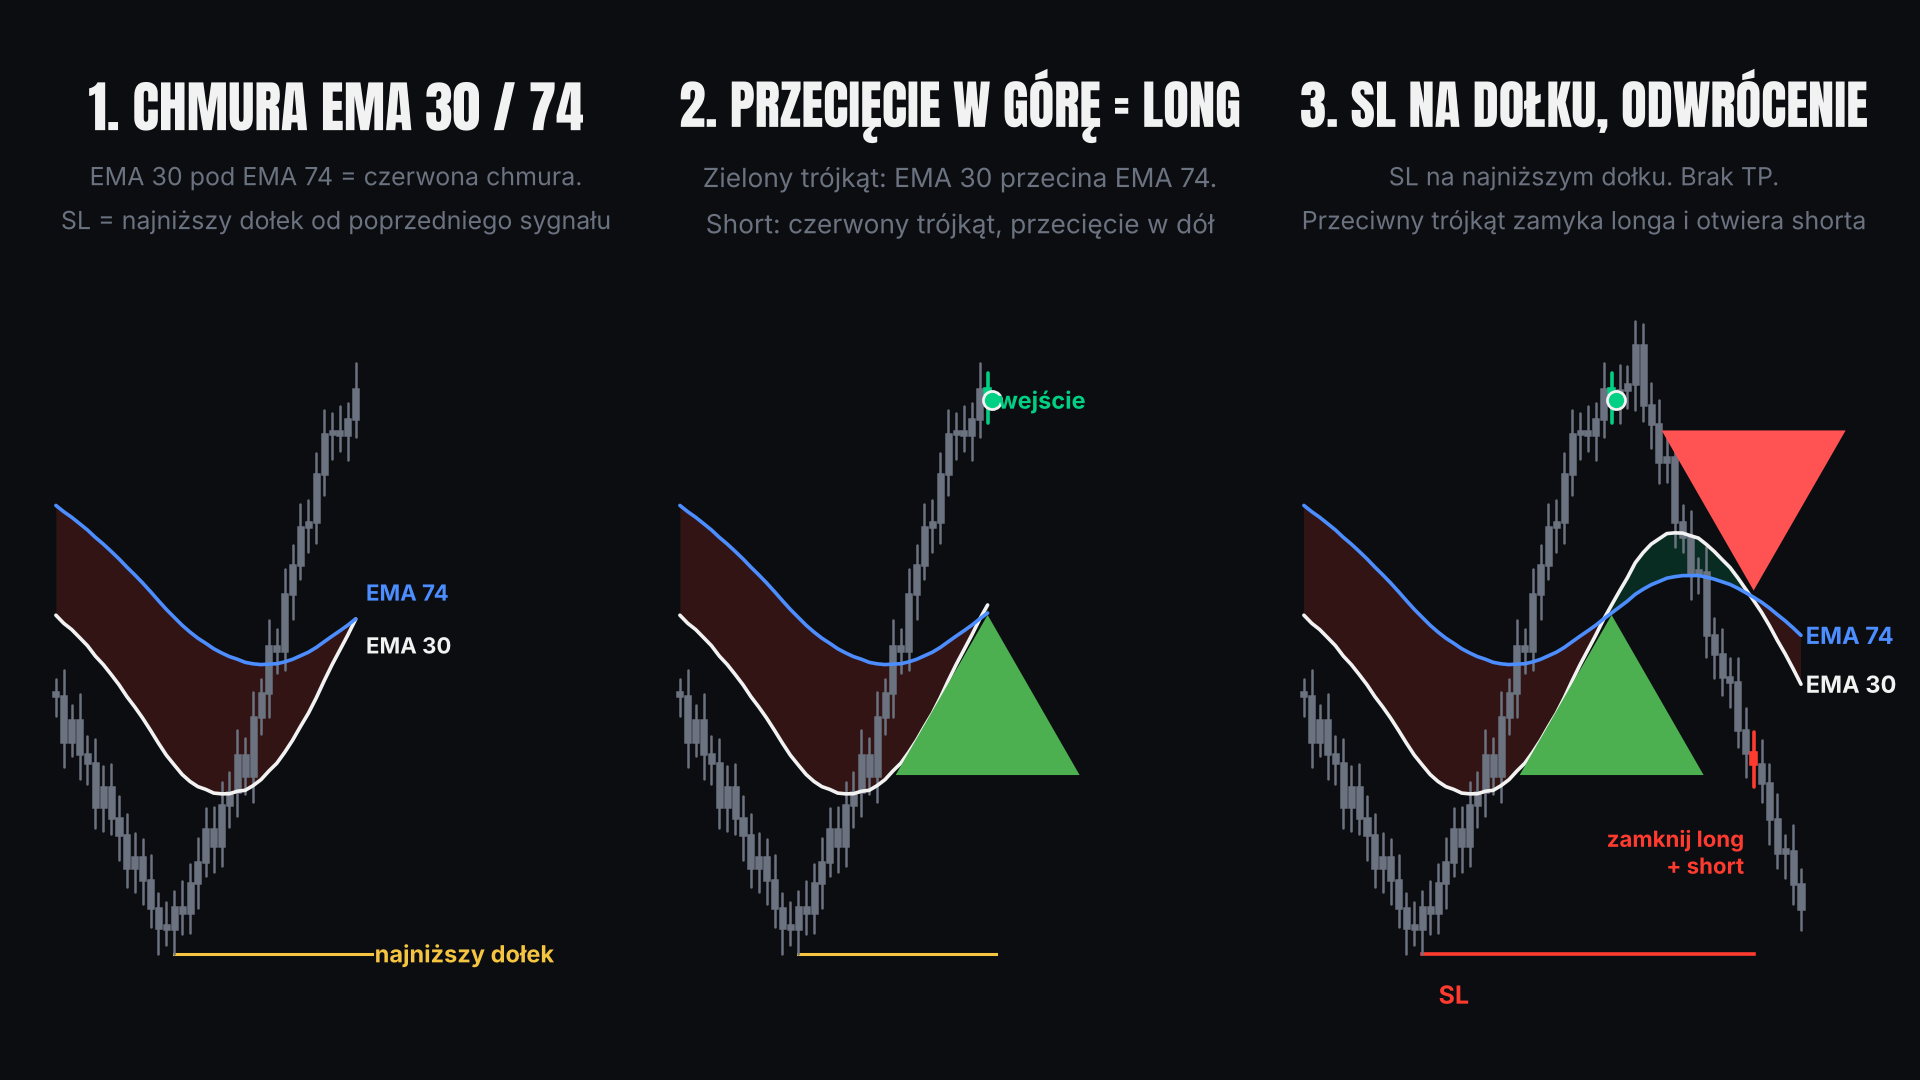
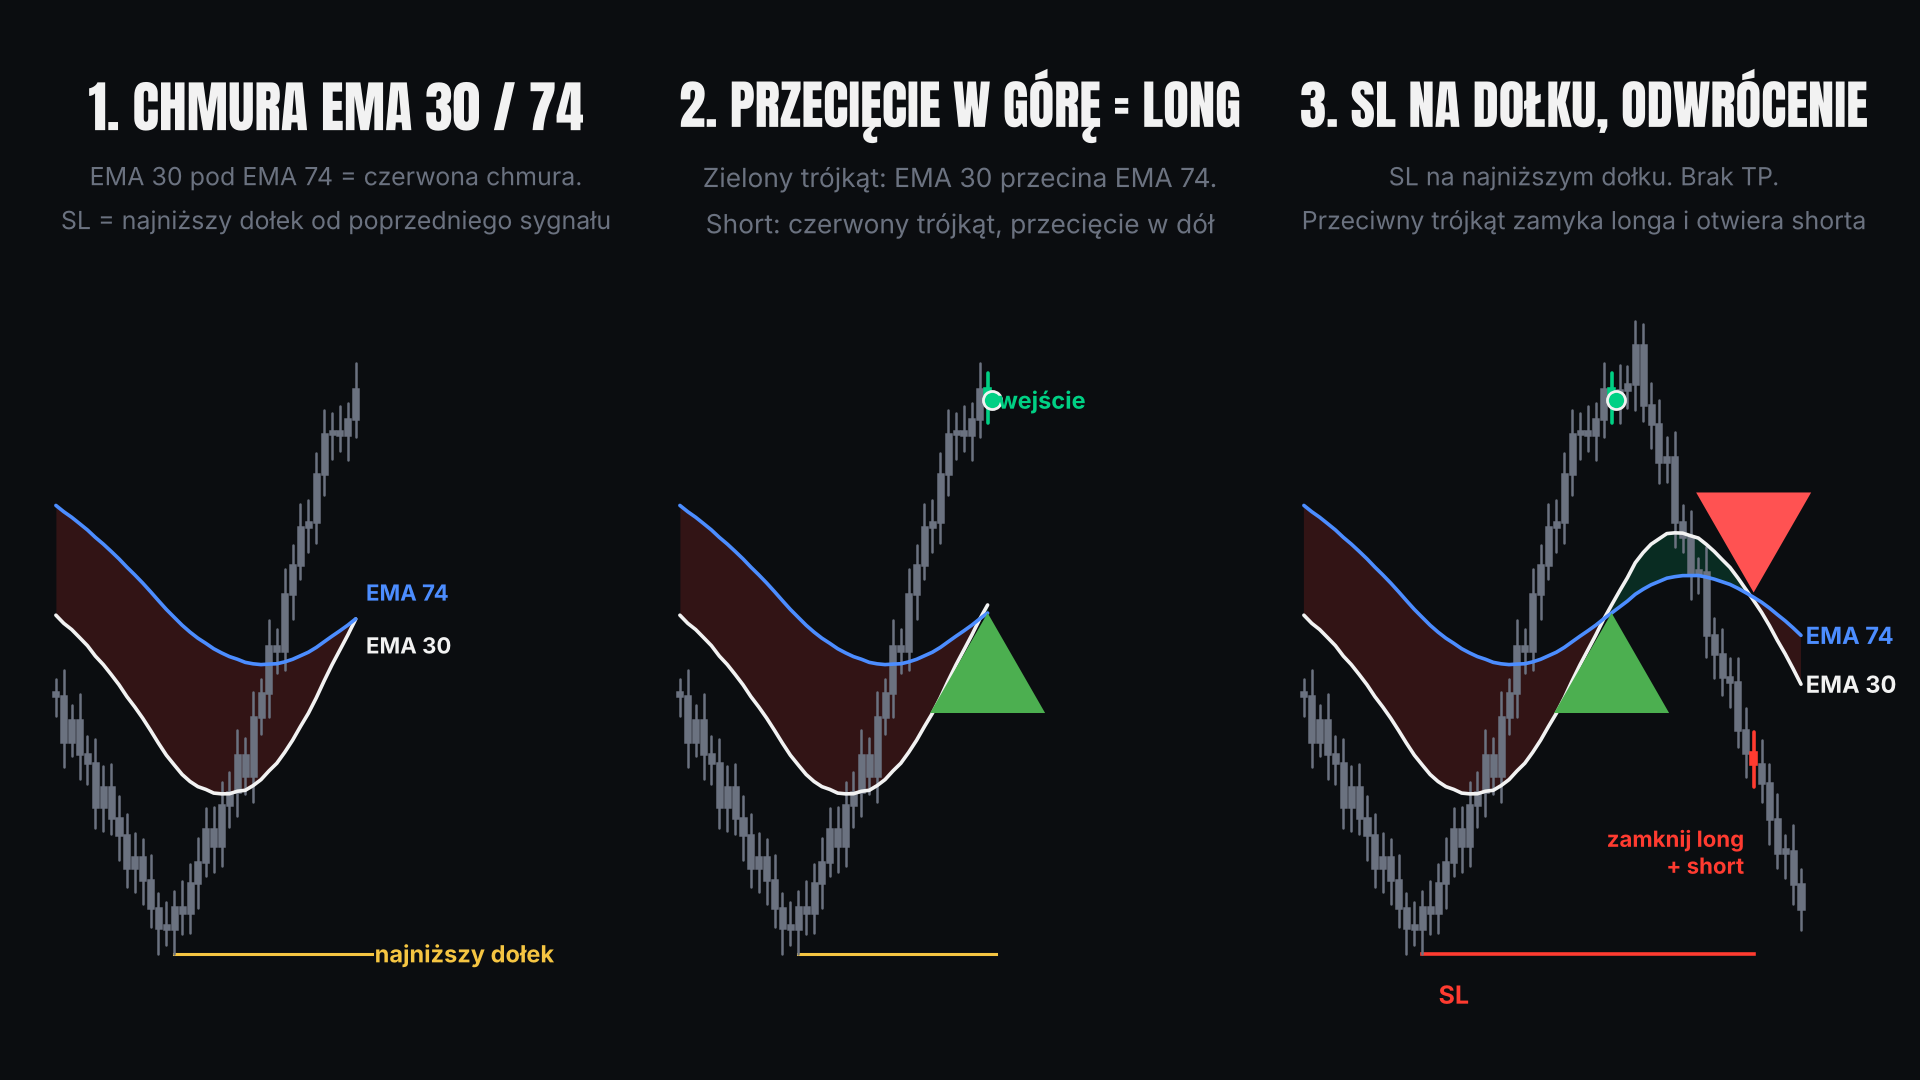
Plansza Cloud MA: trójkąty 2,5× większe niż w wersji bazowej
Claude-Session: https://claude.ai/code/session_01DmSsWBau63wjidTnUSZew8

Changed region(s): [[0.7812, 0.6417, 0.9062, 0.7333], [0.4688, 0.6417, 0.5625, 0.7333], [0.8438, 0.3972, 0.9688, 0.4583]]

diff --git a/narzedzia/plansze_tiktok/tiktok_plansze.py b/narzedzia/plansze_tiktok/tiktok_plansze.py
@@ -202,7 +202,7 @@ class Seg:
         pts = [(x - s, y0 - d), (x + s, y0 - d), (x, y0)] if up else [(x - s, y0 + d), (x + s, y0 + d), (x, y0)]
         ax.add_patch(Polygon(pts, closed=True, facecolor=col, edgecolor=col, zorder=7))
 
-    def signal_tri(self, x, y, col, up, w_px=184, gap_px=10):
+    def signal_tri(self, x, y, col, up, w_px=115, gap_px=8):
         """Duży trójkąt sygnału jak we wskaźniku Cloud MA na TradingView:
         pełny, czubkiem przy przecięciu średnich, pod nim (long) albo nad nim (short)."""
         ax = self.ax
